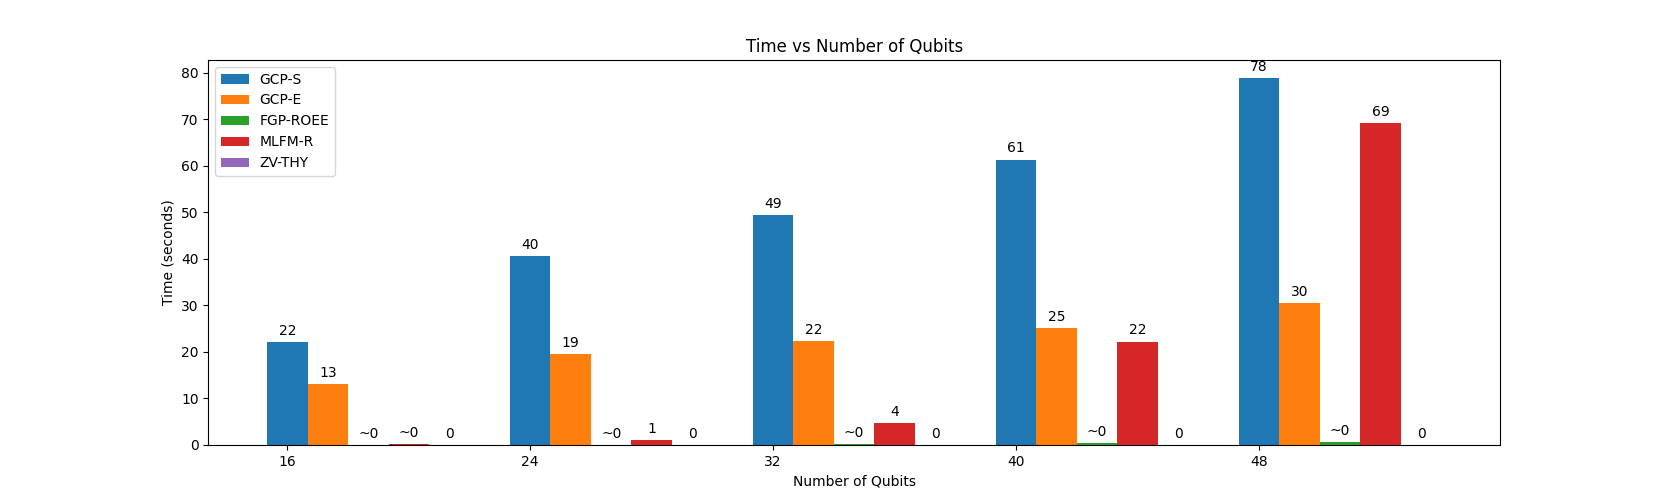
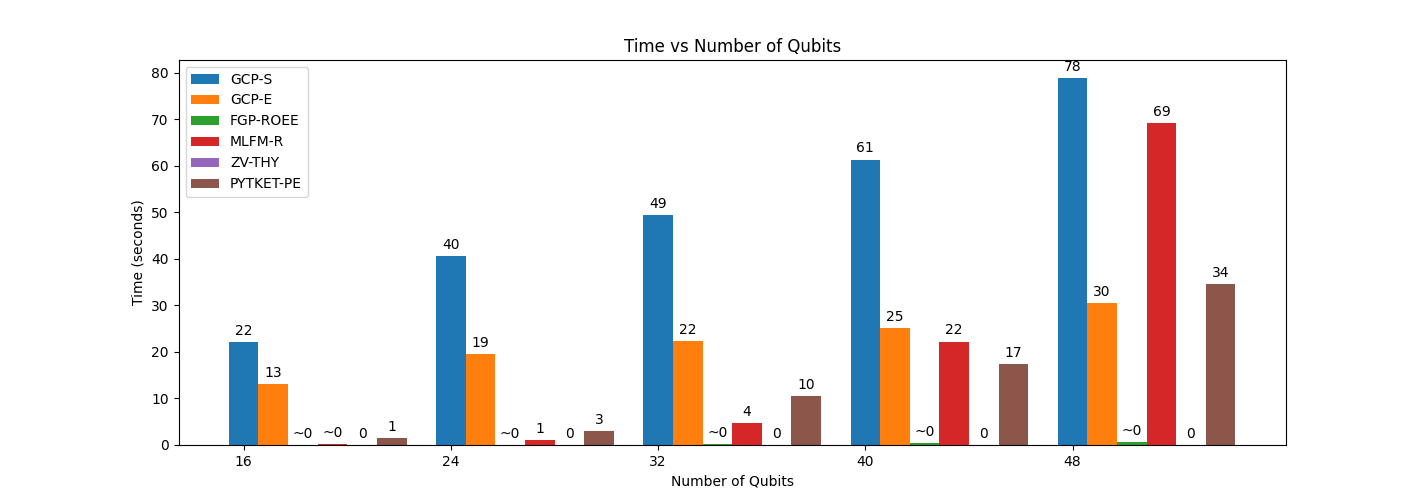
Produced PYTKET-PE data

diff --git a/main.py b/main.py
@@ -1,6 +1,16 @@
+import itertools
+import logging
 import time
 
 import numpy as np
+from pytket.extensions.qiskit import qiskit_to_tk
+from pytket_dqc.allocators import HypergraphPartitioning
+from pytket_dqc.distributors import Distributor
+from pytket_dqc.networks import NISQNetwork
+from pytket_dqc.refiners import EagerHTypeMerge, RepeatRefiner
+from pytket_dqc.utils import DQCPass, ebit_cost
+from qiskit import transpile
+from qiskit.circuit.library import QFT
 
 from disqco.graphs.GCP_hypergraph import QuantumCircuitHyperGraph
 from disqco.graphs.quantum_network import QuantumNetwork
@@ -71,6 +81,49 @@ def test_ZV_THY(circuit, qpu_sizes, num_partitions):
     duration = 0
     return cost, duration
 
+def test_PYTKET_PE(circuit, qpu_sizes, num_partitions):
+    qpu_indices = list(range(num_partitions))
+    qpu_cum_sizes = [0] + list(np.cumsum(qpu_sizes))
+    qpu_qubits_ranges = [range(start, stop) for start,stop in zip(qpu_cum_sizes, qpu_cum_sizes[1:])]
+
+    network = NISQNetwork(
+        server_coupling=list(itertools.product(qpu_indices, qpu_indices)), # fully connected
+        server_qubits={qpu_idx:list(qubits_range) for qpu_idx,qubits_range in enumerate(qpu_qubits_ranges)}
+    )
+
+    tk_circuit = qiskit_to_tk(circuit.decompose()) #assumes circuit is a box
+    DQCPass().apply(tk_circuit) # decompose into CP, H, and Rz
+
+    start = time.time()
+    """Equivalent too the workflow PartitionEmbed 
+    cited in [Andres-Matrinez et al. 2024] and [Burt et al. 2025]
+
+    Implemented by merging the pytket-dqc distributors
+    - PartitioningHeterogeneous, which includes the HypergraphPartitioning
+    - PartitioningHeterogeneousEmbedding, that includes embedding
+    but removing the boundary reallocation of the latter (i.e. removing the 'Heterogeneous' part).
+    """
+    distribution = HypergraphPartitioning().allocate(tk_circuit, network) #seed goes as kwarg
+    refiner = RepeatRefiner(EagerHTypeMerge())
+    refiner.refine(distribution)
+    
+    stop = time.time()
+    duration = stop - start
+
+    cost = distribution.cost()
+    # distributed_circuit = distribution.to_pytket_circuit()
+    # circuit_cost = ebit_cost(distributed_circuit)
+    # nl_count = distribution.non_local_gate_count()
+    # detached_count = distribution.detached_gate_count()
+
+    # print(f"{cost=}")
+    # print(f"{circuit_cost=}")
+    # print(f"{nl_count=}")
+    # print(f"{detached_count=}")
+    
+    return cost, duration
+
+
 def main():
     qpu_size = 8
     num_qubits_range = range(qpu_size*2, qpu_size*6+1, qpu_size)
@@ -86,13 +139,14 @@ def main():
 
         # Transpile the circuit to the basis gates
         basis_gates = ['u', 'cp']
-        circuit = transpile(circuit, basis_gates=basis_gates)
+        circuit = transpile(circuit, basis_gates=basis_gates) # TODO refactor
 
         print(f'Number of qubits in circuit {circuit.num_qubits}')
-        best_score, time = test_ZV_THY(circuit, qpu_sizes, num_partitions)
+        best_score, time = test_PYTKET_PE(circuit, qpu_sizes, num_partitions)
         print(f"Min e-bit count: {best_score}")
-        print(f"Time taken for ZV_THY: {time} seconds")
+        print(f"Time taken for PYTKET_PE: {time} seconds")
         print()
 
 if __name__ == "__main__":
+    logging.getLogger().setLevel(logging.WARNING)
     main()

diff --git a/plot_results_data.py b/plot_results_data.py
@@ -1,6 +1,7 @@
 import matplotlib.pyplot as plt
 import numpy as np
 
+
 def plot_results():
     # Define file paths
     result_filenames = [
@@ -8,7 +9,8 @@ def plot_results():
         "results-data-gcp-e.txt",
         "results-data-fgp-roee.txt",
         "results-data-mlfm-r.txt", 
-        "results-data-zv-thy.txt"
+        "results-data-zv-thy.txt",
+        "results-data-pytket-pe.txt",
     ]
     method_names = ['-'.join(filename.split("-")[2:]).upper()[:-4] for filename in result_filenames]
 
